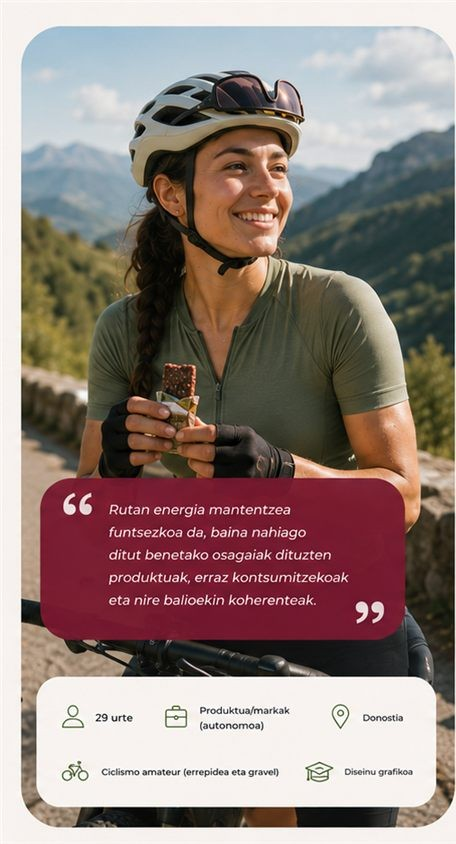
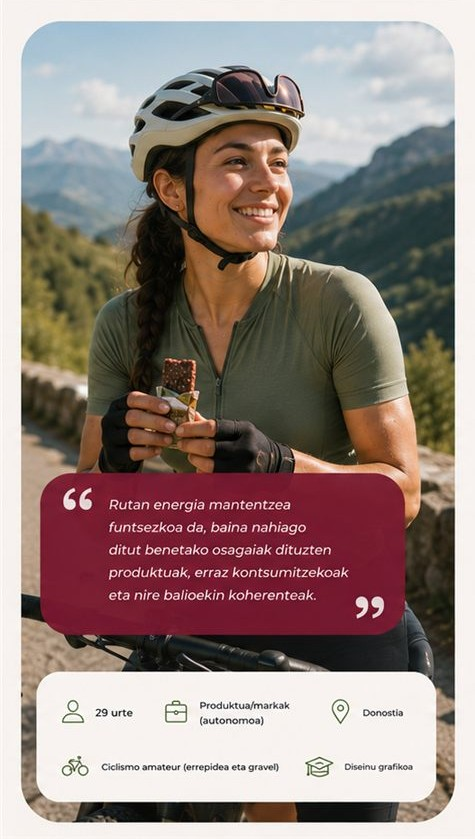
Foto cesta en galeria, margen uniforme en Irati, nuevos datos de encuesta

diff --git a/index.html b/index.html
@@ -299,20 +299,20 @@
 
         <div class="stats__grid">
           <div class="stat reveal" data-delay="1">
-            <div class="stat__num" data-count="91" data-suffix="%">0%</div>
-            <p class="stat__label" data-eu="astean gutxienez 2 aldiz kirola egiten du" data-es="practica deporte al menos 2 veces/semana">astean gutxienez 2 aldiz kirola egiten du</p>
+            <div class="stat__num" data-count="78" data-suffix="%">0%</div>
+            <p class="stat__label" data-eu="snack bat naturala eta kontserbatzailerik gabea izatea baloratzen du" data-es="valora que un snack sea natural y sin conservantes">valora que un snack sea natural y sin conservantes</p>
           </div>
           <div class="stat reveal" data-delay="2">
-            <div class="stat__num" data-count="83" data-suffix="%">0%</div>
-            <p class="stat__label" data-eu="ordubete baino gehiagoko saioak egiten ditu" data-es="realiza sesiones de más de una hora">ordubete baino gehiagoko saioak egiten ditu</p>
+            <div class="stat__num">2/3</div>
+            <p class="stat__label" data-eu="3tik 2k fruta erreala nahiago du suplementu prozesatuen aurretik" data-es="prefiere fruta real antes que suplementos procesados">prefiere fruta real antes que suplementos procesados</p>
           </div>
           <div class="stat reveal" data-delay="3">
-            <div class="stat__num" data-count="61" data-suffix="%">0%</div>
-            <p class="stat__label" data-eu="energiagatik kontsumitzen du, ez lehiagatik" data-es="consume por energía, no por competición">energiagatik kontsumitzen du, ez lehiagatik</p>
+            <div class="stat__num">3,95<span style="font-size:0.5em;opacity:.7">/5</span></div>
+            <p class="stat__label" data-eu="«naturala eta kontserbatzailerik gabea», baloratuena" data-es="«natural y sin conservantes», el atributo mejor valorado">«natural y sin conservantes», el atributo mejor valorado</p>
           </div>
           <div class="stat reveal" data-delay="4">
             <div class="stat__num" data-count="90" data-prefix="n=">n=0</div>
-            <p class="stat__label" data-eu="inkestako parte-hartzaile" data-es="participantes en la encuesta">inkestako parte-hartzaile</p>
+            <p class="stat__label" data-eu="inkestako parte-hartzaile" data-es="participantes en la encuesta">participantes en la encuesta</p>
           </div>
         </div>
         <p class="stats__note reveal"
@@ -546,6 +546,10 @@
         </div>
 
         <div class="imgallery reveal" data-delay="1">
+          <a class="imgallery__item" href="#garapena" aria-label="Tokiko uzta">
+            <img src="assets/basket.png" alt="BIRA · tokiko fruta eta barazkien saskian" loading="lazy" />
+            <span class="imgallery__cap" data-eu="Tokiko uzta" data-es="Cosecha local">Tokiko uzta</span>
+          </a>
           <a class="imgallery__item" href="#garapena" aria-label="Salmenta-puntua">
             <img src="assets/shelf-store.jpg" alt="BIRA · denda ekologikoan apalategian" loading="lazy" />
             <span class="imgallery__cap" data-eu="Salmenta-puntua" data-es="Punto de venta">Salmenta-puntua</span>

diff --git a/styles.css b/styles.css
@@ -891,7 +891,7 @@ body.nav-open .nav-toggle span:nth-child(3) { transform: translateY(-6px) rotate
 }
 .imgallery__item {
   position: relative;
-  flex: 0 1 22%;
+  flex: 0 1 18%;
   min-width: 0;
   border-radius: 0.8rem;
   overflow: hidden;
@@ -899,7 +899,7 @@ body.nav-open .nav-toggle span:nth-child(3) { transform: translateY(-6px) rotate
   transition: flex-basis 1.1s cubic-bezier(0.37, 0, 0.18, 1);
   will-change: flex-basis;
 }
-.imgallery:has(.imgallery__item:hover) .imgallery__item { flex-basis: 17%; }
+.imgallery:has(.imgallery__item:hover) .imgallery__item { flex-basis: 14%; }
 .imgallery__item img {
   width: 100%;
   height: 100%;
@@ -907,7 +907,7 @@ body.nav-open .nav-toggle span:nth-child(3) { transform: translateY(-6px) rotate
   object-position: center;
   display: block;
 }
-.imgallery__item:hover { flex-basis: 49%; }
+.imgallery__item:hover { flex-basis: 44%; }
 .imgallery__cap {
   position: absolute;
   left: 0;
